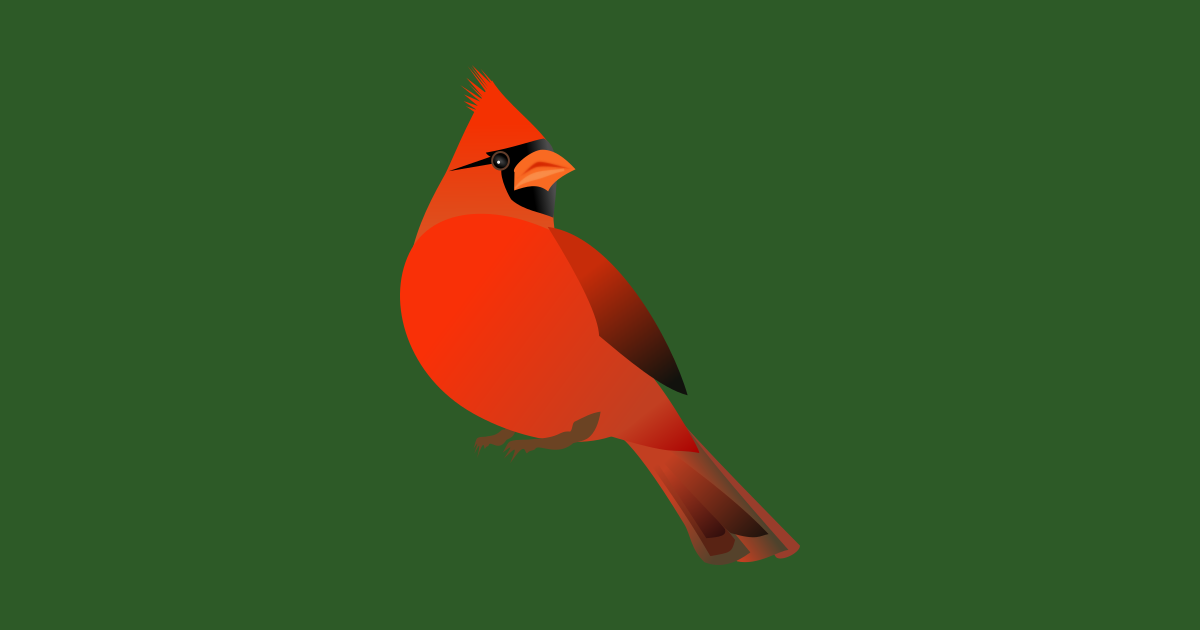
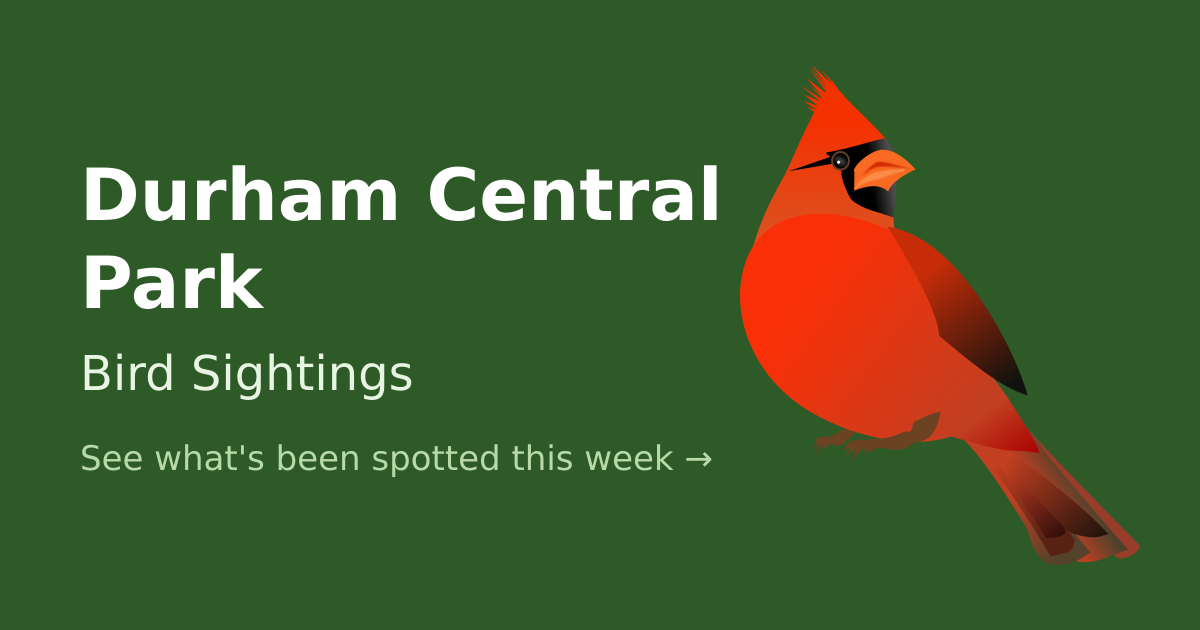
Improve social card: add text to image, lengthen title and description

Changed region(s): [[0.0617, 0.1206, 0.9558, 0.9048], [0.0617, 0.3921, 0.2158, 0.5127]]

diff --git a/src/templates/Base.tsx b/src/templates/Base.tsx
@@ -318,9 +318,9 @@ export function Base({
         <meta charset="UTF-8" />
         <meta name="viewport" content="width=device-width, initial-scale=1.0" />
         <title>Durham Central Park — Bird Sightings</title>
-        <meta name="description" content="Recent bird sightings at Durham Central Park, NC — updated hourly via eBird." />
-        <meta property="og:title" content="Durham Central Park — Bird Sightings" />
-        <meta property="og:description" content="Recent bird sightings at Durham Central Park, NC — updated hourly via eBird." />
+        <meta name="description" content="Browse recent bird sightings at Durham Central Park in Durham, NC. Updated hourly with data from eBird — see what species have been spotted this week." />
+        <meta property="og:title" content="Durham Central Park — Bird Sightings · Durham, NC" />
+        <meta property="og:description" content="Browse recent bird sightings at Durham Central Park in Durham, NC. Updated hourly with data from eBird — see what species have been spotted this week." />
         <meta property="og:image" content="https://birds.burns.sh/cardinal-card.png" />
         <meta property="og:url" content="https://birds.burns.sh/" />
         <meta property="og:type" content="website" />
